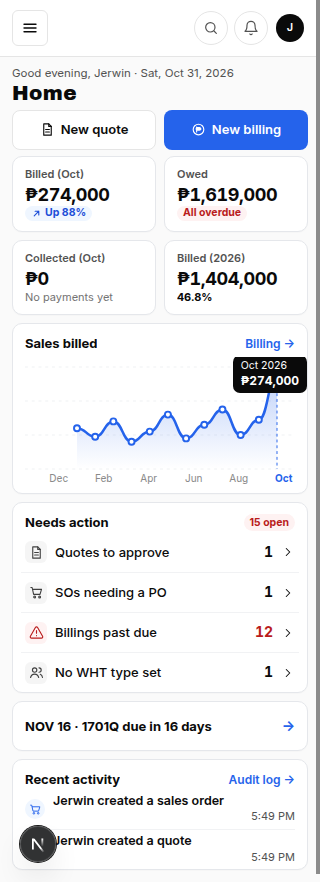
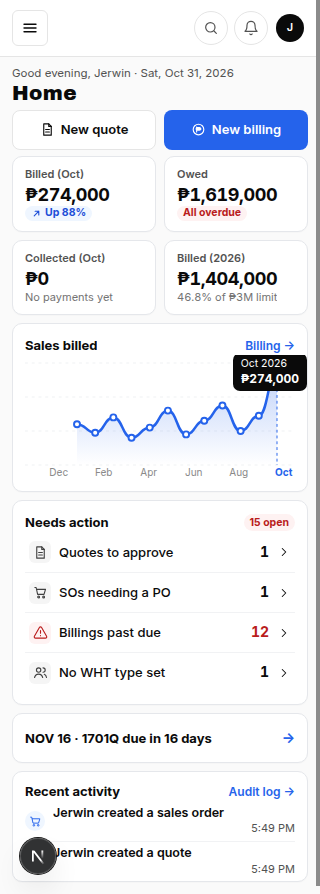
fix(home): phone Sales/NA 12px pad + billed-year limit caption
Phone-only: match Sales billed and Needs action to KPI 12px padding and
trim chart chrome. Show live "N% of ₱XM limit" on the Billed-year KPI.
Desktop data @1280 stays 797px.

diff --git a/tests/home-sales.test.ts b/tests/home-sales.test.ts
@@ -282,6 +282,15 @@ describe("home concept A layout wiring", () => {
     expect(css).toMatch(/@media \(max-width:\s*640px\)[\s\S]*\.home-dashboard\s+\.card\s*\{[^}]*padding:\s*0/s);
     expect(css).toMatch(/@media \(max-width:\s*640px\)[\s\S]*\.home-kp\s*\{[^}]*padding:\s*10px\s+12px/s);
     expect(css).toMatch(/@media \(max-width:\s*640px\)[\s\S]*\.home-ct\s*\{[^}]*padding:\s*10px\s+12px\s+0/s);
+    // Sales billed + Needs action match KPI 12px padding; chart has no empty band
+    expect(css).toMatch(
+      /@media \(max-width:\s*640px\)[\s\S]*\.home-sales\s*>\s*\.home-ct[\s\S]*padding:\s*12px\s+12px\s+0/s,
+    );
+    expect(css).toMatch(
+      /@media \(max-width:\s*640px\)[\s\S]*\.home-na-card\s*>\s*\.home-ct[\s\S]*padding:\s*12px\s+12px\s+0/s,
+    );
+    expect(css).toMatch(/@media \(max-width:\s*640px\)[\s\S]*\.home-na\s*\{[^}]*padding:\s*0\s+12px\s+12px/s);
+    expect(css).toMatch(/@media \(max-width:\s*640px\)[\s\S]*\.home-sales-chart\s*\{[^}]*margin:\s*0/s);
     expect(css).toMatch(/@media \(max-width:\s*640px\)[\s\S]*\.home-ct\s+h3\s*\{[^}]*font-size:\s*13px/s);
     expect(css).toMatch(/@media \(max-width:\s*640px\)[\s\S]*\.home-kv\s*\{[^}]*font-size:\s*18px/s);
     expect(css).toMatch(/@media \(max-width:\s*640px\)[\s\S]*\.home-sales-svg\s*\{[^}]*height:\s*110px/s);
@@ -291,6 +300,7 @@ describe("home concept A layout wiring", () => {
     expect(css).toMatch(/@media \(max-width:\s*640px\)[\s\S]*\.home-tax-strip[\s\S]*min-height:\s*48px/s);
     expect(css).toMatch(/@media \(max-width:\s*640px\)[\s\S]*border-radius:\s*10px/s);
     expect(css).toMatch(/@media \(max-width:\s*640px\)[\s\S]*box-shadow:\s*0\s+1px\s+1px/s);
+    expect(sections).toMatch(/phoneLimitLabel/);
     expect(page).toMatch(/home-page-header/);
   });
 

diff --git a/src/app/globals.css b/src/app/globals.css
@@ -5077,13 +5077,18 @@ button.contact-card-add {
   .home-ct h3 {
     font-size: 13px;
   }
+  /* Sales billed + Needs action: same 12px pad as KPI cards. */
+  .home-sales > .home-ct,
+  .home-na-card > .home-ct {
+    padding: 12px 12px 0;
+  }
 
   /* Chart ~120px, no Y-axis, every-other month, trim chrome. */
   .home-sales-sub {
     display: none; /* range still in desktop; phone saves a line */
   }
   .home-sales-chart {
-    margin: 4px 0 0;
+    margin: 0; /* no empty band above/below the plot */
   }
   .home-sales-yl {
     display: none !important;
@@ -5094,7 +5099,7 @@ button.contact-card-add {
     padding-right: 12px;
   }
   .home-sales-chw {
-    padding-top: 2px;
+    padding-top: 0;
   }
   .home-sales-svg {
     height: 110px;
@@ -5102,8 +5107,8 @@ button.contact-card-add {
   }
   .home-sales-ml {
     font-size: 10px;
-    padding-top: 2px;
-    padding-bottom: 8px;
+    padding-top: 0;
+    padding-bottom: 12px; /* card bottom matches KPI 12px */
   }
   .home-sales-ml span {
     width: 20px;
@@ -5117,15 +5122,21 @@ button.contact-card-add {
     max-width: 42%;
   }
   .home-sales-empty {
-    padding: 0 12px 10px;
+    padding: 0 12px 12px;
   }
 
-  /* Needs action: compact 40px rows, no empty card floor. */
+  /* Needs action: 12px pad like KPI; compact 40px rows. */
   .home-na {
-    padding: 0 8px 0;
+    padding: 0 12px 12px;
   }
   .home-na-empty {
-    padding: 6px 12px 10px;
+    padding: 6px 12px 12px;
+  }
+  .home-ks-phone-limit {
+    display: block !important; /* override flex from .home-phone-only */
+    min-width: 0;
+    overflow: hidden;
+    text-overflow: ellipsis;
   }
   .home-na-row {
     min-height: 40px;

diff --git a/src/lib/home/dashboard.ts b/src/lib/home/dashboard.ts
@@ -38,6 +38,7 @@ import {
   taxCalendarHref,
 } from "./hrefs";
 import { hasOverdueOwed, owedByCustomersSplit, sumPesoAmounts } from "./money";
+import { formatCompactPesoLimit } from "./nonVatCopy";
 import { loadHomeSales } from "./sales-data";
 import {
   manilaMonthKey,
@@ -146,6 +147,8 @@ export type HomeKpis = {
     barPct: number;
     pctLabel: string;
     limitLabel: string;
+    /** Phone sub-line: "46.8% of ₱3M limit" from live pct + Non-VAT limit. */
+    phoneLimitLabel: string;
     href: string;
   };
 };
@@ -232,6 +235,14 @@ function buildTaxDetail(dueYmd: string | null, now: Date): string {
   return `Due ${when} · in ${days} ${days === 1 ? "day" : "days"}`;
 }
 
+/**
+ * Phone Billed-year KPI sub-line from live Non-VAT meter values.
+ * e.g. pctLabel "46.8%" + limit 3_000_000 → "46.8% of ₱3M limit".
+ */
+export function billedYearPhoneLimitLabel(pctLabel: string, limit: number): string {
+  return `${pctLabel} of ${formatCompactPesoLimit(limit)} limit`;
+}
+
 /** Compact phone tax strip: "NOV 16 · 1701Q due in 16 days". */
 export function buildTaxStripLabel(opts: {
   form: string;
@@ -310,6 +321,7 @@ function buildKpis(opts: {
       barPct: nonVat.barPct,
       pctLabel: nonVat.pctLabel,
       limitLabel: `of Non-VAT ${formatCompactLimit(nonVat.limit)}`,
+      phoneLimitLabel: billedYearPhoneLimitLabel(nonVat.pctLabel, nonVat.limit),
       href: nonVat.href,
     },
   };

diff --git a/tests/home-dashboard.test.ts b/tests/home-dashboard.test.ts
@@ -3,6 +3,7 @@ import { currentMonthPeriod } from "@/lib/books/period";
 import { addDays, isoDate, manilaToday } from "@/lib/format";
 import { activitySummary, documentHref, formatHomeActivityWhen } from "@/lib/home/activity";
 import {
+  billedYearPhoneLimitLabel,
   buildTaxStripLabel,
   homeMonthBounds,
   homeOwedSplit,
@@ -230,6 +231,17 @@ describe("home tax phone strip label", () => {
         now,
       }),
     ).toBe("NOV 16 · 1701Q due today");
+  });
+});
+
+describe("home billed-year phone limit label", () => {
+  it("joins live pctLabel with compact Non-VAT limit (not hard-coded 46.8)", () => {
+    expect(billedYearPhoneLimitLabel("46.8%", 3_000_000)).toBe("46.8% of ₱3M limit");
+    expect(billedYearPhoneLimitLabel("0.0%", 3_000_000)).toBe("0.0% of ₱3M limit");
+    expect(billedYearPhoneLimitLabel("50.0%", 1_500_000)).toBe("50.0% of ₱1.5M limit");
+    // Uses the same compact formatter as the Non-VAT title / sidebar.
+    expect(billedYearPhoneLimitLabel("10.0%", 3_000_000)).toContain(formatCompactPesoLimit(3_000_000));
+    expect(billedYearPhoneLimitLabel("10.0%", 3_000_000)).not.toMatch(/^46\.8/);
   });
 });
 

diff --git a/src/components/home/HomeSections.tsx b/src/components/home/HomeSections.tsx
@@ -117,8 +117,10 @@ export function HomeKpiCards({ kpis }: { kpis: HomeKpis }) {
           <span className="home-mini-bar home-desktop-only" aria-hidden>
             <i style={{ width: `${Math.min(100, Math.max(0, kpis.billedThisYear.barPct))}%` }} />
           </span>
-          <b className="num">{kpis.billedThisYear.pctLabel}</b>
+          <b className="num home-desktop-only">{kpis.billedThisYear.pctLabel}</b>
           <span className="home-desktop-only">{kpis.billedThisYear.limitLabel}</span>
+          {/* Phone: "46.8% of ₱3M limit" from live pct + Non-VAT limit. */}
+          <span className="num home-phone-only home-ks-phone-limit">{kpis.billedThisYear.phoneLimitLabel}</span>
         </div>
       </div>
     </div>
